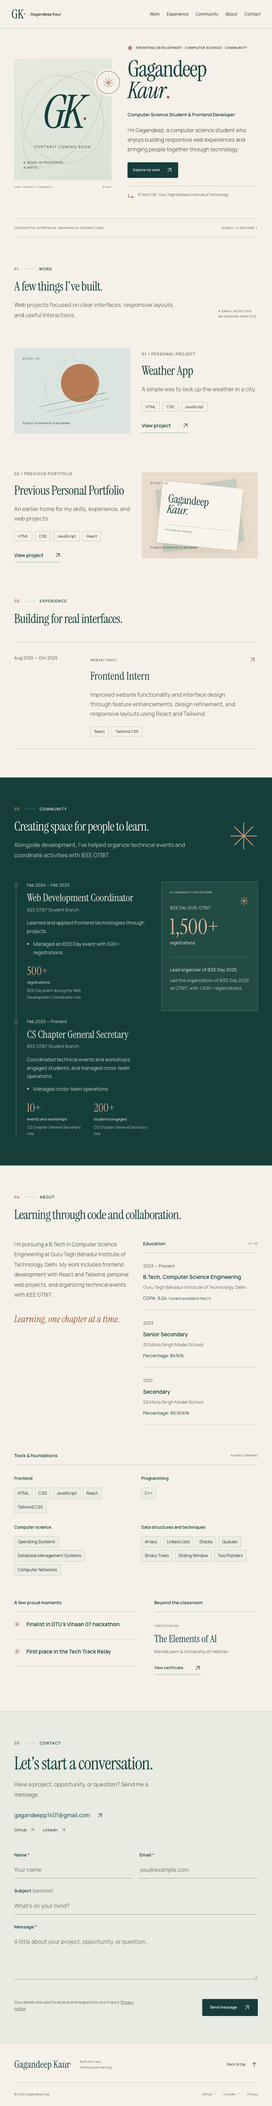
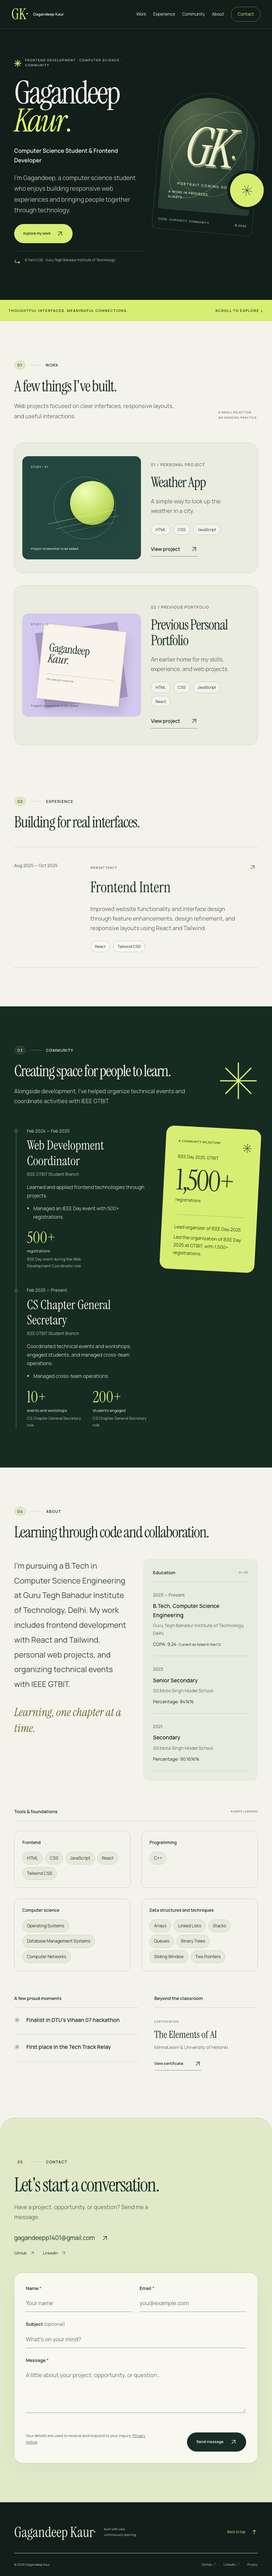
Redesign portfolio with editorial typography and citron visual identity

diff --git a/apps/web/src/styles/public.css b/apps/web/src/styles/public.css
@@ -1,0 +1,145 @@
+/* Public visual identity. Owner controls retain their separate theme. */
+.portfolio-site { --brand:#172d25; --accent:#626b29; --canvas:#f4f3eb; --border:#ccd0c2; background:var(--canvas); overflow-x:clip; }
+.portfolio-site ::selection { background:#d8ee72; color:#15231d; }
+.portfolio-site .site-header { background:#111e19; color:#f4f3eb; border-color:#ffffff20; }
+.portfolio-site .brand-mark { color:#d8ee72; font-size:42px; }
+.portfolio-site .brand-mark span { color:#d8ee72; }
+.portfolio-site .header-note { color:#bbc6b7; }
+.portfolio-site .site-nav a { color:#f4f3eb; }
+.portfolio-site .site-nav .nav-number { color:#c5d0bf; }
+.portfolio-site :is(.site-header,.hero-stage,.community-section,.site-footer) :focus-visible { outline-color:#d8ee72; }
+.portfolio-site .site-nav a:after { background:#d8ee72; }
+.portfolio-site .site-nav a:last-child { border:1px solid #d8ee7270; padding:8px 18px; border-radius:30px; color:#d8ee72; }
+.portfolio-site .hero-stage { background:#111e19; color:#f4f3eb; position:relative; }
+.portfolio-site .hero { grid-template-columns:1.25fr .85fr; gap:65px; padding-top:82px; padding-bottom:90px; min-height:730px; }
+.portfolio-site .hero-copy { position:relative; z-index:1; }
+.portfolio-site .hero h1 { color:#f4f3eb; font-size:clamp(76px,9.4vw,136px); line-height:.88; letter-spacing:-.055em; }
+.portfolio-site .hero h1 em,.portfolio-site .hero .name-dot { color:#d8ee72; }
+.portfolio-site .hero-eyebrow { color:#c5d0bf; letter-spacing:.17em; margin-bottom:30px; }
+.portfolio-site .tiny-star { color:#d8ee72; font-size:27px; }
+.portfolio-site .hero-role { color:#f4f3eb; margin-top:32px; font-size:16px; }
+.portfolio-site .hero-intro { color:#bdc9ba; font-size:17px; max-width:460px; }
+.portfolio-site .button { border-radius:40px; padding:16px 25px; min-height:54px; transition:transform .2s,background .2s,box-shadow .2s; }
+.portfolio-site .hero .button-primary { background:#d8ee72; color:#17251d; }
+.portfolio-site .button:hover { transform:translateY(-3px); box-shadow:0 8px 25px #172d2520; }
+.portfolio-site .hero .resume-link { color:#edf0df; border-color:#748370; }
+.portfolio-site .hero-context { color:#b3c2ae; border-color:#ffffff24; max-width:460px; }
+.portfolio-site .hero-context>span { color:#d8ee72; }
+.portfolio-site .portrait-wrap { transform:rotate(5deg); max-width:420px; padding:12px; border:1px solid #a3b08c50; border-radius:220px 220px 20px 20px; }
+.portfolio-site .portrait-frame { border-radius:200px 200px 12px 12px; background:#273f31; }
+.portfolio-site .portrait-placeholder { background:radial-gradient(ellipse at 30% 18%,#53664a,transparent 65%),#273b30; }
+.portfolio-site .portrait-initials { color:#ecf0ce; font-size:clamp(150px,19vw,270px); text-shadow:3px 5px 0 #87916b,10px 15px 35px #0005; }
+.portfolio-site .portrait-initials>span { color:#d8ee72; }
+.portfolio-site .portrait-orbit { z-index:0; border-color:#d8ee7255; }
+.portfolio-site .orbit-two { border-color:#cbbff380; }
+.portfolio-site .portrait-caption,.portfolio-site .portrait-corner { color:#e1e7cd; }
+.portfolio-site .portrait-stamp { background:#d8ee72; border:0; color:#172d25; box-shadow:0 0 0 8px #111e19; width:95px; height:95px; right:-24px; top:55%; }
+.portfolio-site .portrait-footnote { color:#bdc9ba; padding:8px 4px; font-size:8px; }
+.portfolio-site .journal-divider { background:#d8ee72; max-width:none; color:#233023; padding:22px max(24px,calc((100vw - 1200px)/2)); font-size:10px; letter-spacing:.15em; }
+.portfolio-site .journal-divider:before,.portfolio-site .journal-divider:after { display:none; }
+.portfolio-site .section { padding-top:110px; padding-bottom:110px; }
+.portfolio-site .chapter-heading h2 { font-size:clamp(44px,5.6vw,78px); max-width:780px; letter-spacing:-.04em; }
+.portfolio-site .chapter-label>span:first-child { background:#e0e6c6; padding:5px 9px; border-radius:50%; color:#374424; }
+.portfolio-site .project-spreads { gap:34px; }
+.portfolio-site .project-spread,.portfolio-site .project-spread.reverse { padding:22px; border:1px solid #d3d7c8; border-radius:24px; background:#eaece0; gap:48px; grid-template-columns:1.2fr 1fr; }
+.portfolio-site .project-story { padding:24px 24px 24px 0; }
+.portfolio-site .project-story h3 { font-size:52px; letter-spacing:-.035em; }
+.portfolio-site .project-artwork,.portfolio-site .project-media { border-radius:16px; aspect-ratio:1.15; }
+.portfolio-site .project-spread.reverse>.project-artwork,.portfolio-site .project-spread.reverse>.project-media { order:0; }
+.portfolio-site .art-0 { background:#23473e; }
+.portfolio-site .art-0 .artwork-index,.portfolio-site .art-0 .artwork-label { color:#e4edd3; }
+.portfolio-site .weather-sun { background:radial-gradient(circle at 35% 25%,#f0ffb4,#bbd956 65%,#7c9b38); box-shadow:0 15px 40px #101e1b55; width:155px; height:155px; }
+.portfolio-site .weather-ring { border-color:#d7e9b77a; width:220px; height:220px; }
+.portfolio-site .weather-line { background:#e3f2ba; }
+.portfolio-site .art-1 { background:#d3c9ee; }
+.portfolio-site .sheet-back { background:#a89ac7; border-color:#9c8fba; }
+.portfolio-site .sheet-front { box-shadow:10px 20px 30px #40355525; }
+.portfolio-site .technology-list li { border-radius:30px; background:#ffffff60; border-color:#bfc6b5; padding:7px 12px; }
+.portfolio-site .text-link { border-color:#7d8c68; }
+.portfolio-site .experience-section { padding-top:35px; }
+.portfolio-site .experience-row { padding:42px 0; }
+.portfolio-site .experience-row h3 { font-size:42px; }
+.portfolio-site .community-section { background:#162b22; position:relative; }
+.portfolio-site .community-section .chapter-label>span:first-child { color:#d8ee72; background:#ffffff15; }
+.portfolio-site .community-intro>.asterisk { color:#d8ee72; width:110px; height:110px; }
+.portfolio-site .event-callout { background:#d8ee72; border:0; border-radius:22px; color:#172d25; padding:36px; transform:rotate(3deg); }
+.portfolio-site .event-callout .eyebrow,.portfolio-site .event-callout .event-year,.portfolio-site .event-callout h3,.portfolio-site .event-callout p,.portfolio-site .event-metric,.portfolio-site .event-metric>span { color:#263820; }
+.portfolio-site .event-metric { font-size:100px; letter-spacing:-.05em; }
+.portfolio-site .event-metric > span { letter-spacing:normal; }
+.portfolio-site .event-callout-bottom { border-color:#172d2540; }
+.portfolio-site .callout-flower { color:#33432a; }
+.portfolio-site .role-metrics strong { color:#d8ee72; font-size:44px; }
+.portfolio-site .leadership-timeline h3 { font-size:36px; }
+.portfolio-site .about-biography>p { font-size:22px; color:#354537; }
+.portfolio-site .handwritten { font-size:32px; }
+.portfolio-site .education { background:#e8ecdf; padding:28px; border-radius:18px; }
+.portfolio-site .skill-groups>div { padding:22px; border:1px solid #cbd2c0; border-radius:16px; }
+.portfolio-site .skill-groups li { border-radius:30px; padding:7px 12px; background:#e5e9da; }
+.portfolio-site .contact-section { background:#e1e9c9; border-radius:40px 40px 0 0; }
+.portfolio-site .contact-section .chapter-heading h2 { font-size:clamp(55px,6vw,86px); }
+.portfolio-site .contact-form { background:#f8f8f0; border:1px solid #cbd5b5; border-radius:24px; padding:32px; box-shadow:0 20px 60px #3546280a; }
+.portfolio-site .contact-email { font-size:17px; }
+.portfolio-site .site-footer { background:#111e19; color:#c1cbbb; padding-top:60px; }
+.portfolio-site .footer-top > p { color:#c1cbbb; }
+.portfolio-site .footer-name { font-size:clamp(40px,5vw,68px); color:#eff2df; }
+.portfolio-site .footer-name span { color:#d8ee72; }
+.portfolio-site .back-top { color:#d8ee72; }
+.portfolio-site .footer-bottom { border-color:#ffffff25; color:#c1cbbb; }
+.portfolio-site .project-detail-header h1 { font-size:clamp(58px,8vw,110px); letter-spacing:-.045em; }
+.portfolio-site .project-detail .media-large { aspect-ratio:2; }
+.portfolio-site .project-next { background:#e1e9c9; padding:35px; border-radius:20px; }
+.portfolio-site .project-content h2 { font-size:42px; }
+@media(hover:hover) and (prefers-reduced-motion:no-preference) {
+ .portfolio-site .project-artwork .weather-art,.portfolio-site .project-artwork .portfolio-art { transition:transform .35s; }
+ .portfolio-site .project-spread:hover .weather-art,.portfolio-site .project-spread:hover .portfolio-art { transform:translate(-50%,-50%) scale(1.06) rotate(-3deg); }
+ .portfolio-site .portrait-wrap { transition:transform .4s; }
+ .portfolio-site .portrait-wrap:hover { transform:rotate(0); }
+}
+@media(max-width:1000px) {
+ .portfolio-site .hero { gap:36px; grid-template-columns:1.1fr .85fr; min-height:650px; }
+ .portfolio-site .hero h1 { font-size:90px; }
+ .portfolio-site .project-story h3 { font-size:40px; }
+ .portfolio-site .project-spread,.portfolio-site .project-spread.reverse { gap:28px; }
+ .portfolio-site .community-grid { gap:45px; }
+ .portfolio-site .event-metric { font-size:80px; }
+}
+@media(max-width:639px) {
+ .portfolio-site .site-nav { background:#172b22; border-color:#536149; }
+ .portfolio-site .site-nav a:last-child { padding:8px 18px; align-self:flex-start; }
+ .portfolio-site .menu-toggle { color:#edf1dd; }
+ .portfolio-site .hero { display:flex; flex-direction:column; gap:50px; padding-top:50px; padding-bottom:55px; }
+ .portfolio-site .hero-copy { width:100%; }
+ .portfolio-site .hero h1 { font-size:clamp(66px,18vw,108px); }
+ .portfolio-site .hero-role { font-size:14px; margin-top:25px; }
+ .portfolio-site .hero-intro { font-size:16px; }
+ .portfolio-site .hero-eyebrow { font-size:8px; letter-spacing:.08em; }
+ .portfolio-site .hero-actions { flex-wrap:wrap; gap:18px; }
+ .portfolio-site .hero .portrait-wrap { width:82%; max-width:340px; margin:0; }
+ .portfolio-site .portrait-initials { font-size:190px; }
+ .portfolio-site .portrait-stamp { right:-20px; width:75px; height:75px; }
+ .portfolio-site .journal-divider { gap:25px; font-size:8px; }
+ .portfolio-site .journal-divider>span:last-child { min-width:80px; }
+ .portfolio-site .section { padding-top:70px; padding-bottom:70px; }
+ .portfolio-site .chapter-heading h2 { font-size:49px; }
+ .portfolio-site .project-spread,.portfolio-site .project-spread.reverse { display:flex; flex-direction:column; align-items:stretch; padding:16px; gap:20px; border-radius:20px; }
+ .portfolio-site .project-heading-mobile h3 { font-size:34px; }
+ .portfolio-site .project-story { padding:0 2px 12px; }
+ .portfolio-site .project-artwork,.portfolio-site .project-media { width:100%; aspect-ratio:1.15; }
+ .portfolio-site .experience-section { padding-top:0; }
+ .portfolio-site .experience-row h3 { font-size:34px; }
+ .portfolio-site .community-intro>.asterisk { width:46px; height:46px; flex-shrink:0; }
+ .portfolio-site .event-callout { transform:none; padding:28px; }
+ .portfolio-site .event-metric { font-size:90px; }
+ .portfolio-site .about-biography>p { font-size:20px; }
+ .portfolio-site .education { padding:22px; }
+ .portfolio-site .skill-groups>div { padding:16px; }
+ .portfolio-site .contact-form { padding:22px; }
+ .portfolio-site .form-row { grid-template-columns:1fr; }
+ .portfolio-site .form-bottom { align-items:flex-start; flex-direction:column; }
+ .portfolio-site .contact-email { font-size:14px; }
+ .portfolio-site .contact-section { border-radius:24px 24px 0 0; }
+ .portfolio-site .footer-top > p { color:#c1cbbb; }
+.portfolio-site .footer-name { font-size:40px; }
+ .portfolio-site .project-next { padding:24px; }
+ .portfolio-site .project-detail .media-large { aspect-ratio:1.2; }
+}

diff --git a/apps/web/src/components/public/home.tsx b/apps/web/src/components/public/home.tsx
@@ -78,8 +78,8 @@ export function PortfolioHome({ content }: { content: PublicSiteContent }) {
     : content.projects;
   return (
     <main id="main">
+      <div className="hero-stage">
       <section className="hero container" id="top" aria-labelledby="hero-title">
-        <PortraitFrame media={p.portrait} />
         <div className="hero-copy">
           <div className="eyebrow hero-eyebrow">
             <span className="tiny-star">✳</span>
@@ -116,7 +116,9 @@ export function PortfolioHome({ content }: { content: PublicSiteContent }) {
             <p>{s.availability_text}</p>
           )}
         </div>
+        <PortraitFrame media={p.portrait} />
       </section>
+      </div>
       <div className="container journal-divider">
         <span>THOUGHTFUL INTERFACES. MEANINGFUL CONNECTIONS.</span>
         <span>SCROLL TO EXPLORE ↓</span>

diff --git a/apps/web/src/components/public/shell.tsx b/apps/web/src/components/public/shell.tsx
@@ -1,6 +1,7 @@
 import { Link } from 'react-router';
 import type { ReactNode } from "react";
 import type { PublicSiteContent } from "@/lib/types";
+import "@/styles/public.css";
 import { SiteHeader } from "./header";
 import { Arrow } from "./icons";
 export function ExternalLink({
@@ -32,7 +33,7 @@ export function PublicShell({
   children: ReactNode;
 }) {
   return (
-    <>
+    <div className="portfolio-site">
       <a className="skip-link" href="#main">
         Skip to content
       </a>
@@ -72,6 +73,6 @@ export function PublicShell({
           </div>
         </div>
       </footer>
-    </>
+    </div>
   );
 }

diff --git a/docs/superpowers/plans/2026-11-12-visual-redesign.md b/docs/superpowers/plans/2026-11-12-visual-redesign.md
@@ -1,0 +1,16 @@
+# Visual Redesign Implementation Plan
+
+**Goal:** Give the existing portfolio a stronger visual identity while preserving content and functionality.
+**Architecture:** Scoped public CSS theme plus small semantic component composition changes. No API/database/deployment changes.
+**Spec:** docs/superpowers/specs/2026-11-12-visual-redesign.md
+
+- [x] Restructure the hero and add restrained branded details.
+- [x] Build responsive public theme covering home, projects, contact and footer.
+- [x] Inspect browser screenshots at desktop/mobile; correct layout/contrast issues.
+- [x] Run existing verification and browser checks, review, then push and confirm CI.
+
+## Verification — 2026-11-24
+
+`make verify` passed: Ruff, mypy, operational tests, ESLint, TypeScript, contracts, 32 API tests, 12 frontend tests, deployment-config tests and production build. `E2E_WEB_MODE=production make e2e` passed all 14 browser tests, including responsive widths and owner editing/publishing/media workflows. Additional axe checks found no violations on mobile home, open navigation or project detail.
+
+Inspected desktop and mobile captures. Review findings (milestone label spacing and dark-surface navigation/focus contrast) were corrected before final verification. Updated screenshots are in docs/screenshots. No hosting deployment was performed.

diff --git a/docs/superpowers/specs/2026-11-12-visual-redesign.md b/docs/superpowers/specs/2026-11-12-visual-redesign.md
@@ -1,0 +1,9 @@
+# Portfolio visual redesign
+
+User direction: make the existing React portfolio more striking, polished and attention-grabbing. Preserve every content fact and working CMS/API workflow. The user has authorized the ongoing project and pushes; this is a presentation update rather than a new product.
+
+Chosen direction: midnight-green hero and header, luminous citron accents, warm ivory reading sections and restrained lilac artwork. Use oversized Instrument Serif typography, a text-first hero with sculptural GK monogram placeholder, cinematic project panels, a prominent community milestone, refined skills/education and a bold contact ending. Keep actual image/PDF placeholders honest; no fabricated screenshots or portrait.
+
+Implement a scoped public theme in public.css so the owner editor keeps its existing readable controls. PublicShell owns the theme class. Preserve SSR-visible content, reduced-motion support, keyboard controls and contrast; use short entrance/hover feedback and no perpetual animation, scroll hijacking or cursor replacement.
+
+Acceptance: inspect desktop/mobile screenshots, run existing unit/types/build gates and real-stack browser acceptance including axe and320/360/768/1440 widths. Check actual owner preview also receives the public theme. Push the verified change to the existing repository.
